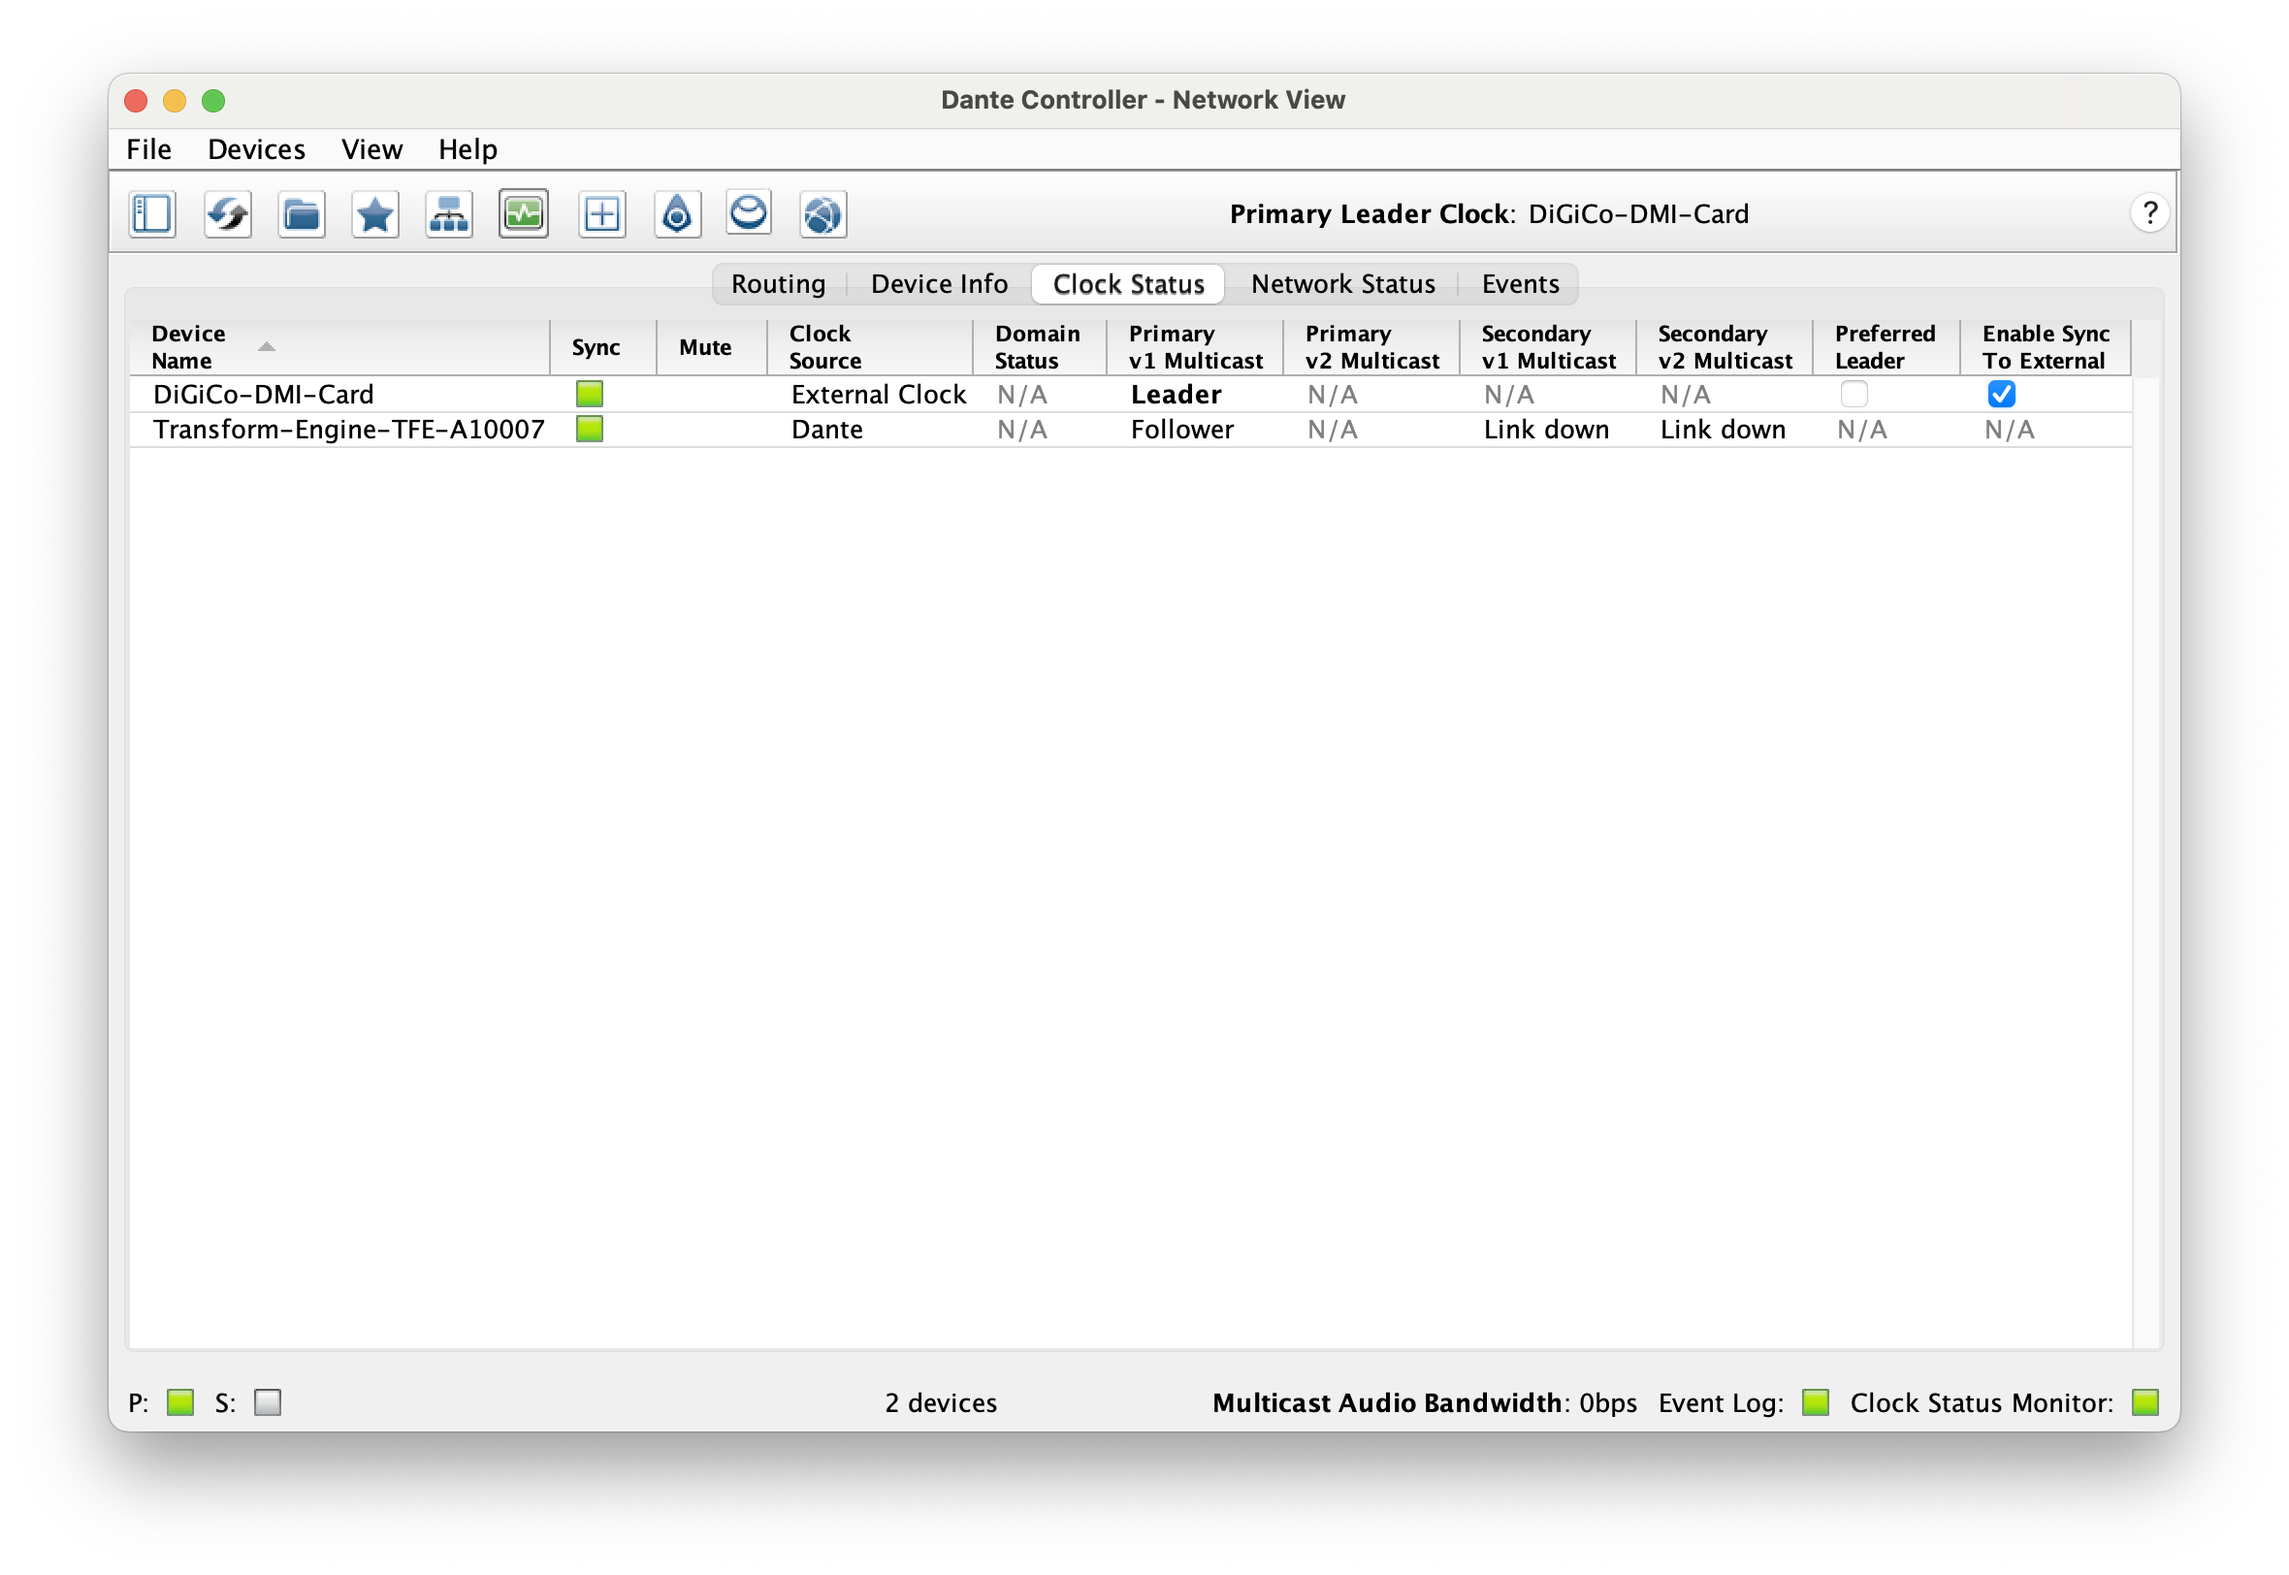
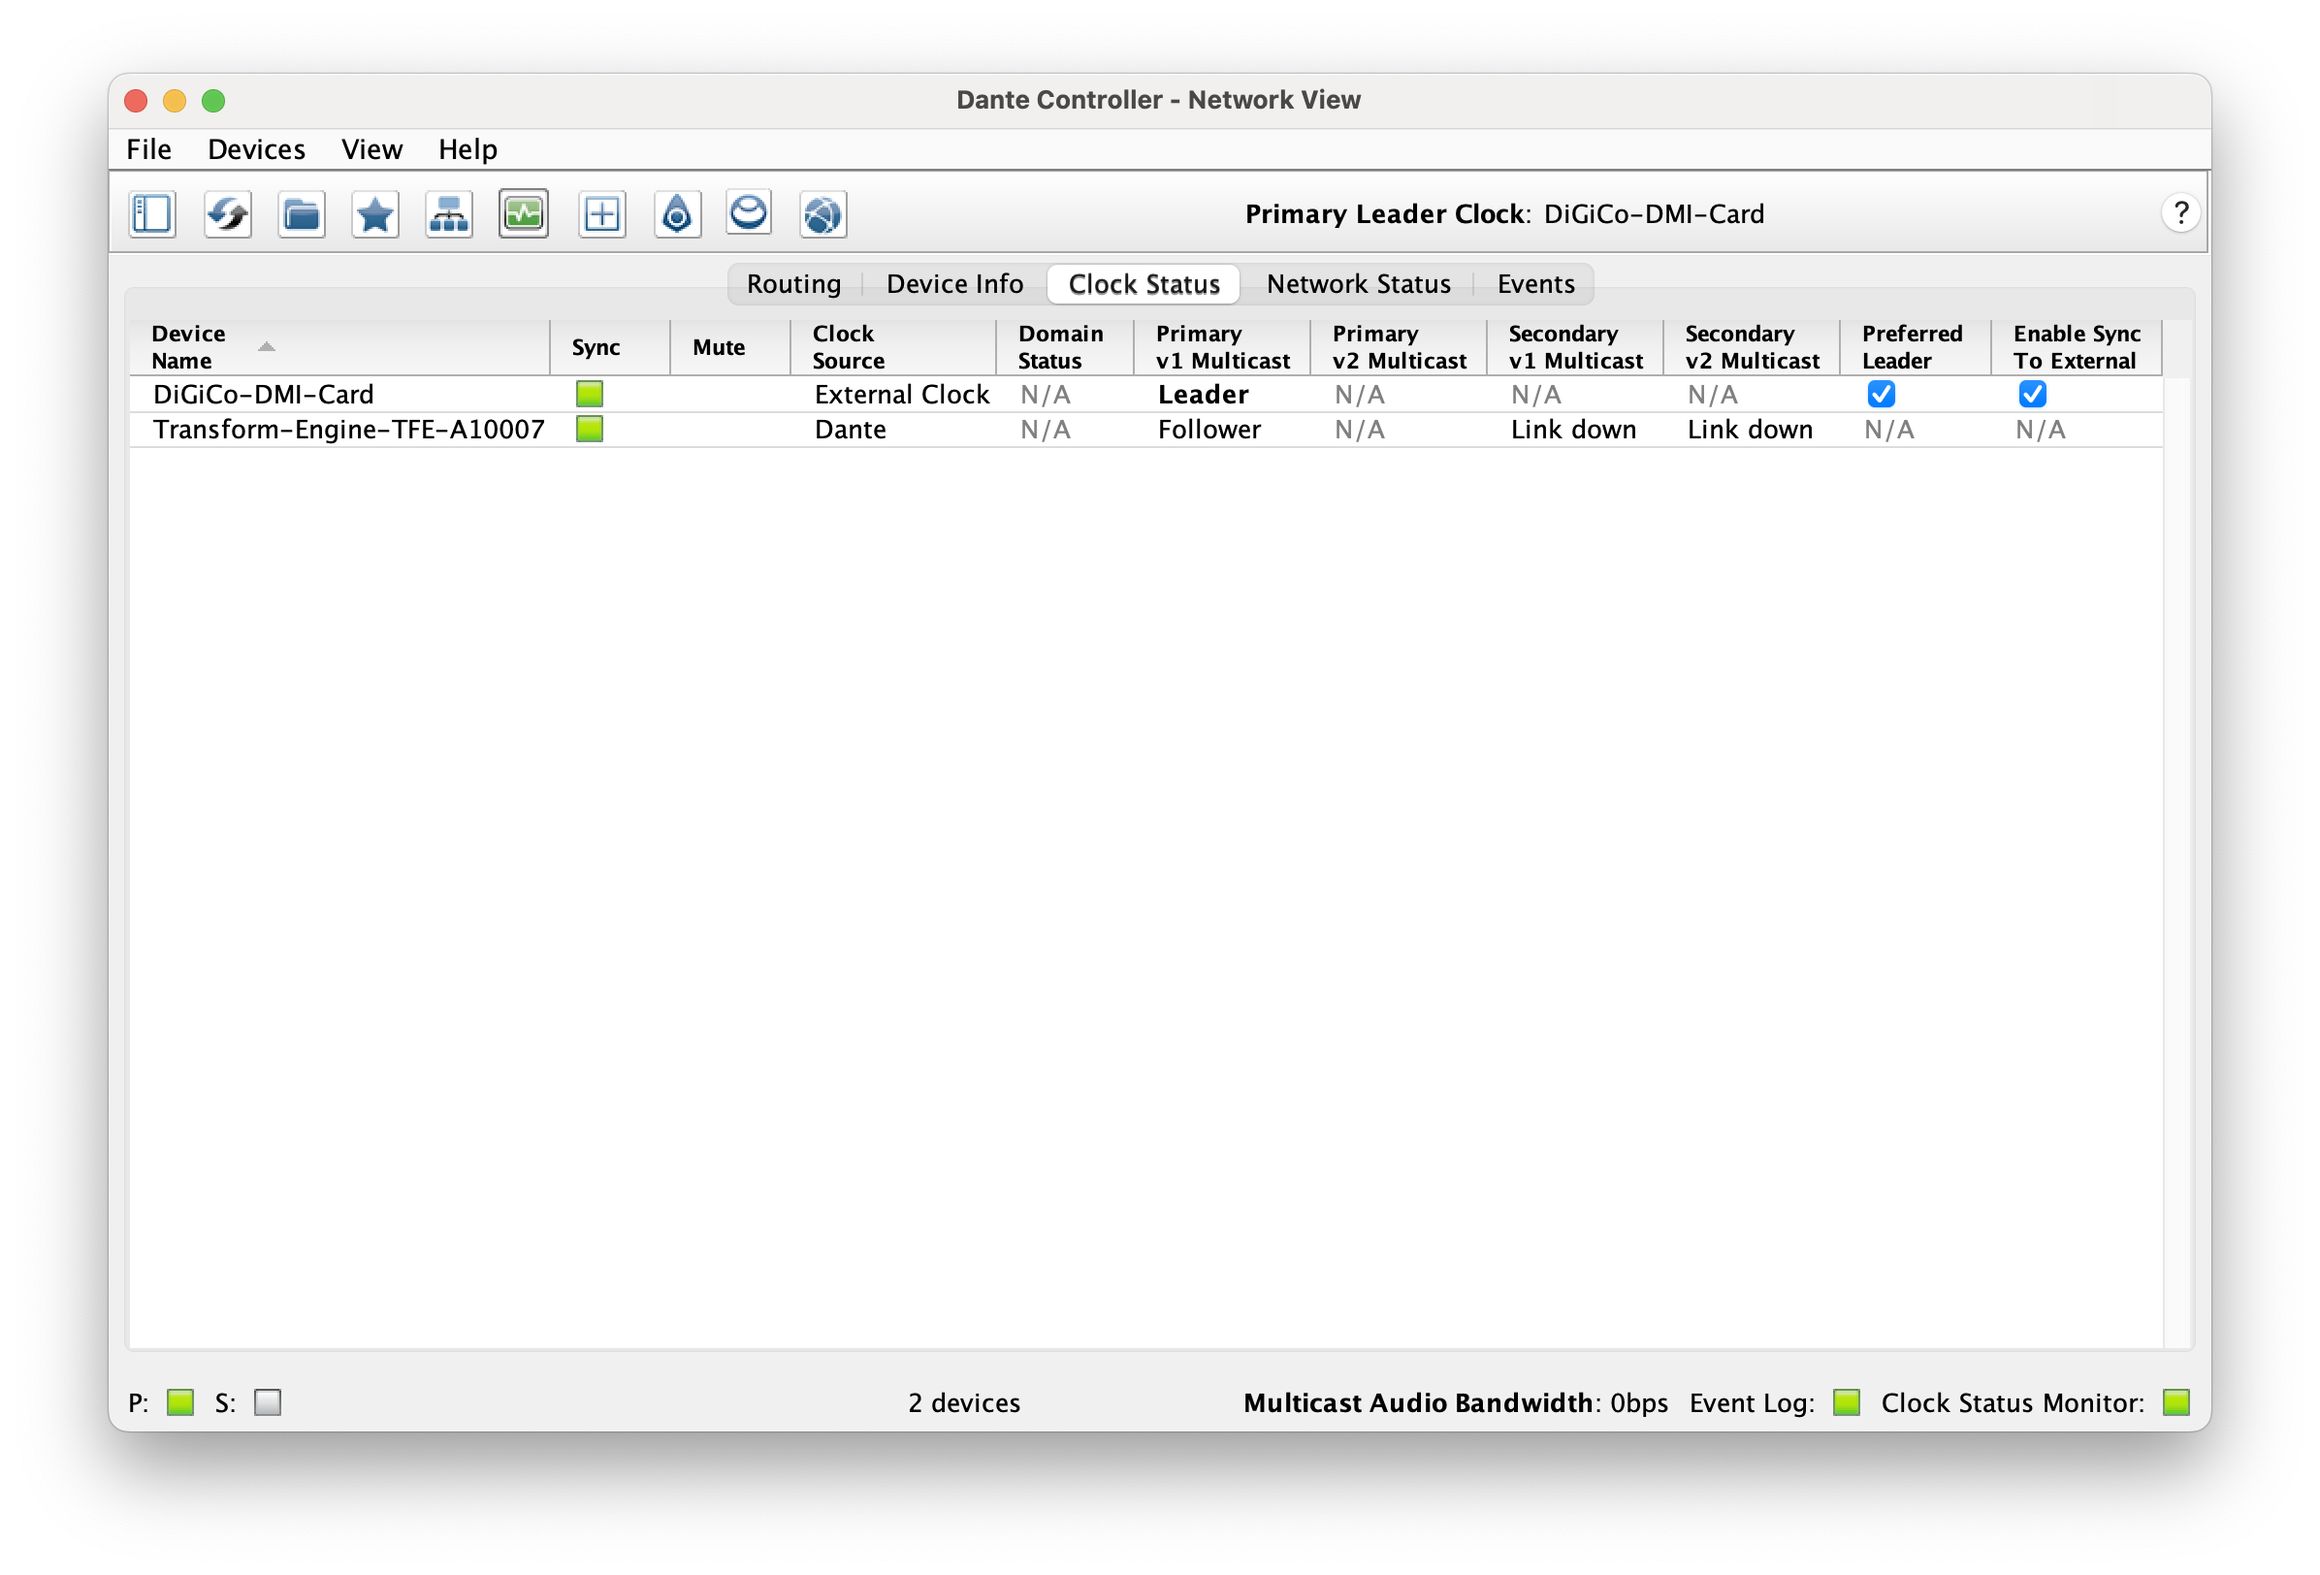
Photos

diff --git a/docs/manual/getting-started.md b/docs/manual/getting-started.md
@@ -121,9 +121,13 @@ If you haven’t already, download Dante Controller [here](https://my.audinate.c
 
 Launch Dante Controller, your **transform**.engine and audio console will magically appear! 
 
-![Dante controller- Device View](/static/img/dante-network-examples/Dante-controller-devices.png)
+![Dante controller- Device Info](../../static/img/dante-network-examples/Dante-controller-devices.png)
 
 Patch all 64 transmits (_fancy networing term for outputs_) from one device to the other device’s receives (_similarly fancy networking term for inputs_), and vice versa. 
+
+![Dante controller- Digico DMI-Dante](../../static/img/dante-network-examples/dante-controller-dmi-view.png)
+
+![Dante controller- Fourier Audio transform.engine](../../static/img/dante-network-examples/dante-controller-transform-view.png)
 
 Your devices will now be patched 1 to 1! 
 
@@ -131,7 +135,9 @@ Your devices will now be patched 1 to 1!
 
 Whilst Dante is very clever, ensuring your clock settings are correct are vital for crystal clear audio.
 
-Dante will automatically select a clock leader, but if for example you are using a Digico console, and the console is set to anything other than the DMI-Dante card as the sync primary. You will need to ensure your DMI-Dante card takes it's sync from the console. To do this, in Dante controller, in clock status, you need to tick the box 'Enable Sync to External' on your DMI-Dante card.
+Dante will automatically select a clock leader, but if for example you are using a Digico console, and the console is set to anything other than the DMI-Dante card as the sync primary. You will need to ensure your DMI-Dante card takes it's sync from the console. To do this, in Dante controller, in clock status, you need to tick the 'Preferred Leader' box and 'Enable Sync to External' on your DMI-Dante card.
+
+![Dante controller- Clock Status](../../static/img/dante-network-examples/Dante-controller-clock-settings.png)
 
 This means your Dante network will be clocking from your console sync. If you don't do this, your console and Dante network will be running to different clocks and could lead to potential problems! 
 
